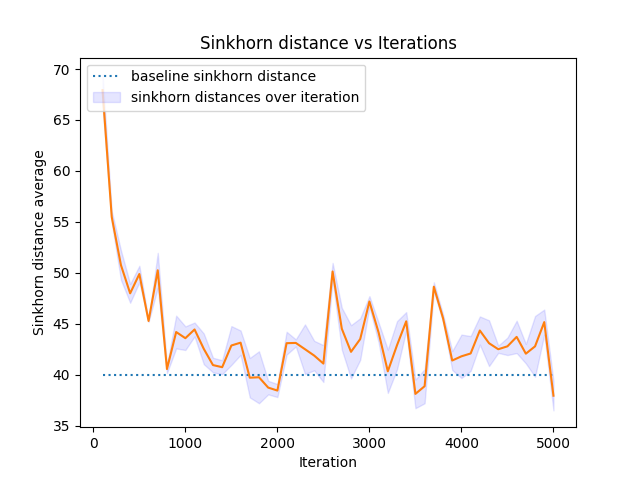
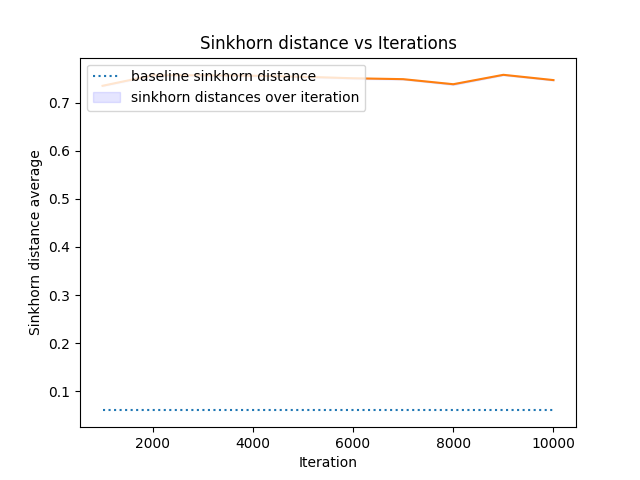
HeadTail DDPM circles dataset. Didnot work

diff --git a/denoising_diffusion_pytorch/ddpm_sandbox/test/test_diffusion_model.py b/denoising_diffusion_pytorch/ddpm_sandbox/test/test_diffusion_model.py
@@ -60,8 +60,8 @@ if __name__ == '__main__':
     batch_size = 32
     # num_train_step = 20_000
     model_name = "ddpm_nn"
-    dataset_name = "mnist8"
-    # dataset_name = "circles"
+    # dataset_name = "mnist8"
+    dataset_name = "circles"
     model_checkpoint_ext = ".pt"
     checkpoint_metadata_ext = ".json"
     diffusion_model_objective="pred_noise"
@@ -93,7 +93,7 @@ if __name__ == '__main__':
         ).to(device)
         sample_batch_size = 4
     elif dataset_name in GaussianDiffusion.SKLEARN_DATASET_NAMES:
-        noise_model = HeadTail(hidden_dim=128, input_dim=2, time_steps=time_steps).to(device)
+        noise_model = HeadTail(hidden_dim=256, input_dim=2, time_steps=time_steps).to(device)
         diffusion_model = GaussianDiffusion(noise_model=noise_model, dataset_name=dataset_name,
                                             timesteps=time_steps, objective=diffusion_model_objective).to(device)
         sample_batch_size = 1024

diff --git a/denoising_diffusion_pytorch/ddpm_sandbox/ddpm_trainer.py b/denoising_diffusion_pytorch/ddpm_sandbox/ddpm_trainer.py
@@ -433,7 +433,7 @@ if __name__ == '__main__':
     num_images = 1
     num_channels = 1
     batch_size = 4000
-    num_train_iterations = 100_000
+    num_train_iterations = 10_000
     debug_flag = False
     pbar_update_freq = 100
     checkpoint_freq = 1000
